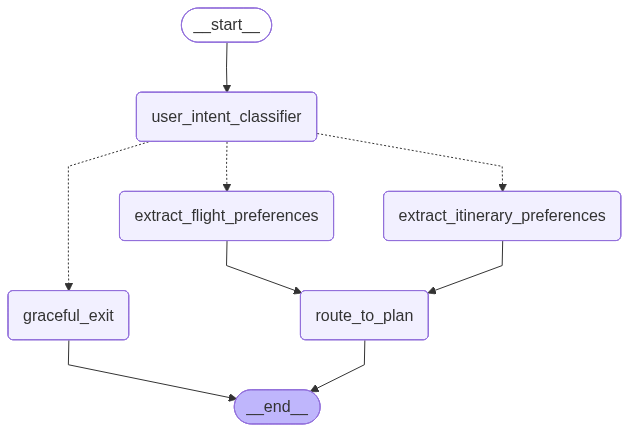
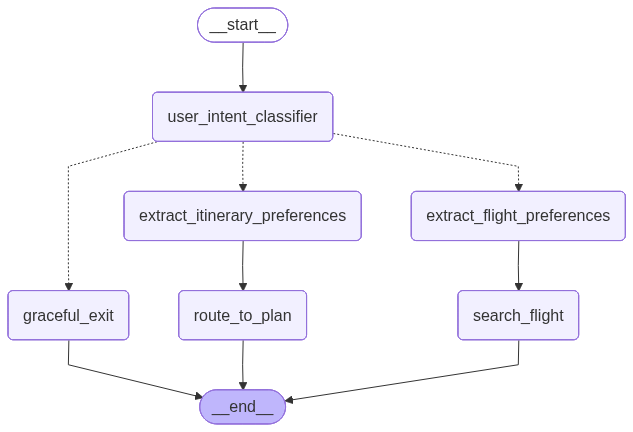
Flight Booking Tool Added

diff --git a/backend/app_workflow.py b/backend/app_workflow.py
@@ -10,6 +10,7 @@ from langgraph.graph import StateGraph
 from backend.checkpoint_manager import CheckpointerManager
 from backend.llm.client import create_llm_client
 from backend.nodes.flight.extract_flight_preferences import ExtractFlightPreferences
+from backend.nodes.flight.search_flight import SearchFlight
 from backend.nodes.itinerary.extract_itinerary_preferences import ExtractItineraryPreferences
 from backend.nodes.user_intent_classifier import UserIntentClassifier
 from backend.schema.models import State, IntentType
@@ -19,12 +20,10 @@ class IntentClassifierAgent:
     def __init__(self, llm_client:BaseChatModel):
         self.workflow = None
         self._checkpointer = CheckpointerManager(os.getenv("POSTGRES_URI")).setup()
-
         self.user_intent_classifier = UserIntentClassifier(llm_client)
-
         self.extract_itinerary_preferences = ExtractItineraryPreferences(llm_client)
-
         self.extract_flight_preferences = ExtractFlightPreferences(llm_client)
+        self.search_flight = SearchFlight(llm_client)
 
     def route_intent(self, state: State):
         if state.intent != IntentType.UNKNOWN and state.confidence > 0.6:
@@ -41,6 +40,8 @@ class IntentClassifierAgent:
 
         return "graceful_exit"
 
+
+
     def route_to_plan(self, state: State):
         print("im in routing further")
         print("Received prefs: ", *state)
@@ -56,6 +57,7 @@ class IntentClassifierAgent:
         graph.add_node("extract_flight_preferences", self.extract_flight_preferences)
         graph.add_node("graceful_exit", self.gracefully_exit)
         graph.add_node("route_to_plan", self.route_to_plan)
+        graph.add_node("search_flight", self.search_flight)
 
         graph.add_edge(START, "user_intent_classifier")
 
@@ -70,7 +72,8 @@ class IntentClassifierAgent:
         )
 
         graph.add_edge("extract_itinerary_preferences", "route_to_plan")
-        graph.add_edge("extract_flight_preferences", "route_to_plan")
+        graph.add_edge("extract_flight_preferences", "search_flight")
+        graph.add_edge("search_flight", END)
         graph.add_edge("route_to_plan", END)
 
         graph.add_edge("graceful_exit", END)
@@ -78,7 +81,6 @@ class IntentClassifierAgent:
         self.workflow = graph.compile(checkpointer=self._checkpointer)
 
     def invoke(self, user_input: str, session_id: str) -> dict[str, str]:
-        """Return response (only final AI message) and thinking (all reasoning/thinking for AI Thinking block)."""
         thinking_parts: set[str] = set()
         ai_message_content = ""
         printed_message_ids: set = set()

diff --git a/backend/nodes/flight/search_flight.py b/backend/nodes/flight/search_flight.py
@@ -1,0 +1,59 @@
+from langchain_core.language_models import BaseChatModel
+from langchain_core.messages import AIMessage
+
+from backend.nodes.base_node import BaseNode
+from backend.nodes.flight.flight_tools import search_flight as search_flight_tool
+from backend.schema.models import FlightBookingPreferences, State
+
+
+class SearchFlight(BaseNode):
+    def __init__(self, llm_client: BaseChatModel):
+        super().__init__(llm_client)
+
+    def __call__(self, state: State) -> dict:
+        preferences = state.preferences
+        if not isinstance(preferences, FlightBookingPreferences):
+            return {
+                "messages": [
+                    AIMessage(
+                        content="No flight preferences available. Please provide origin, destination, travel dates, and number of travelers."
+                    )
+                ]
+            }
+
+        if not preferences.is_complete():
+            missing = preferences.required_fields_missing()
+            return {
+                "messages": [
+                    AIMessage(
+                        content=f"Cannot search flights yet. Missing: {', '.join(missing)}. Please provide these details."
+                    )
+                ]
+            }
+
+        try:
+            result = search_flight_tool.invoke({"preferences": preferences})
+            ai_message = self._format_search_result(result)
+            return {"messages": [AIMessage(content=ai_message)]}
+        except Exception as e:
+            return {
+                "messages": [
+                    AIMessage(
+                        content=f"Flight search failed: {e}. Please try again or check your preferences."
+                    )
+                ]
+            }
+
+    def _format_search_result(self, result) -> str:
+        lines = [
+            "Here’s a flight that matches your preferences:",
+            f"- **Airline:** {result.airline} ({result.flight_number})",
+            f"- **Route:** {result.origin} → {result.destination}",
+            f"- **Duration:** {result.duration_hours}h",
+            f"- **Cabin:** {result.cabin_class}",
+            f"- **Price:** ${result.price_usd:.2f} USD",
+            f"- **Stops:** {result.stops}",
+
+            "Would you like me to proceed with booking this flight, or would you prefer that I explore more options for you?"
+        ]
+        return "\n".join(lines)

diff --git a/backend/nodes/flight/extract_flight_preferences.py b/backend/nodes/flight/extract_flight_preferences.py
@@ -2,7 +2,7 @@ from langchain_core.language_models import BaseChatModel
 from langchain_core.messages import SystemMessage, AIMessage
 
 from backend.nodes.base_node import BaseNode
-from backend.schema.models import FlightBookingPreferences
+from backend.schema.models import FlightBookingPreferences, State
 from backend.util.prompt_loader import get_system_prompt
 
 
@@ -10,7 +10,7 @@ class ExtractFlightPreferences(BaseNode):
     def __init__(self, llm_client: BaseChatModel):
         super().__init__(llm_client)
 
-    def __call__(self, state):
+    def __call__(self, state:State):
         prompts = [
             SystemMessage(content=get_system_prompt(state)),
             *state.messages
@@ -38,7 +38,7 @@ class ExtractFlightPreferences(BaseNode):
                 "Could you please share a few basics like:\n"
                 "- Destination\n"
                 "- Travel dates\n"
-                "- Departure city\n"
+                "- Origin\n"
                 "- Number of travelers\n"
                 "For example:\n"
                 "'I want to travel to Bali from Berlin on 31st Jan,2025 with 2 adults'"
@@ -50,8 +50,8 @@ class ExtractFlightPreferences(BaseNode):
             missing_fields.append("destination")
         if not preferences.travel_dates and preferences.duration_days is None:
             missing_fields.append("travel dates or duration")
-        if not preferences.departure_city:
-            missing_fields.append("departure city")
+        if not preferences.origin:
+            missing_fields.append("origin")
         if preferences.number_of_travelers is None:
             missing_fields.append("number of travelers")
 
@@ -75,8 +75,8 @@ class ExtractFlightPreferences(BaseNode):
             lines.append(f"- **Destination:** {preferences.destination}")
         if preferences.travel_dates:
             lines.append(f"- **Travel dates:** {preferences.travel_dates}")
-        if preferences.departure_city:
-            lines.append(f"- **Departure city:** {preferences.departure_city}")
+        if preferences.origin:
+            lines.append(f"- **Origin:** {preferences.origin}")
         if preferences.number_of_travelers is not None:
             lines.append(f"- **Travelers:** {preferences.number_of_travelers}")
         return "\n".join(lines)

diff --git a/backend/api/flight_controller.py b/backend/api/flight_controller.py
@@ -1,0 +1,53 @@
+import random
+import uuid
+from datetime import datetime, timedelta
+from typing import List
+
+from fastapi import APIRouter, Query
+
+router = APIRouter()
+
+AIRLINES = ["Delta Airlines", "Lufthansa", "Emirates", "Qatar Airways", "Air India"]
+AIRPORTS = ["JFK", "LHR", "DXB", "CDG", "SIN", "FRA", "DEL", "SFO"]
+CABIN_CLASSES = ["Economy", "Premium Economy", "Business", "First"]
+
+
+def generate_random_flight(origin: str, destination: str) -> dict:
+    departure_time = datetime.now() + timedelta(hours=random.randint(1, 72))
+    duration_hours = random.randint(2, 15)
+    arrival_time = departure_time + timedelta(hours=duration_hours)
+
+    return {
+        "id": str(uuid.uuid4()),
+        "airline": random.choice(AIRLINES),
+        "flight_number": f"{random.choice(['DL', 'LH', 'EK', 'QR', 'AI'])}{random.randint(100, 999)}",
+        "origin": origin,
+        "destination": destination,
+        "departure_time": departure_time.isoformat(),
+        "arrival_time": arrival_time.isoformat(),
+        "duration_hours": duration_hours,
+        "cabin_class": random.choice(CABIN_CLASSES),
+        "price_usd": round(random.uniform(150, 1500), 2),
+        "stops": random.choice([0, 1, 2]),
+    }
+
+
+@router.get("/flight-search")
+def flight_search(
+    origin: str = Query(..., example="JFK"),
+    destination: str = Query(..., example="LHR"),
+    passengers: int = Query(1, ge=1, le=10),
+) -> dict:
+    results_count = random.randint(3, 8)
+    flights: List[dict] = [
+        generate_random_flight(origin, destination)
+        for _ in range(results_count)
+    ]
+    return {
+        "search_id": str(uuid.uuid4()),
+        "origin": origin,
+        "destination": destination,
+        "passengers": passengers,
+        "currency": "USD",
+        "results": flights,
+    }

diff --git a/backend/nodes/flight/flight_tools.py b/backend/nodes/flight/flight_tools.py
@@ -1,0 +1,40 @@
+from typing import Union
+
+from langchain_core.tools import tool
+
+from backend.schema.models import FlightBookingPreferences
+from backend.service.FlightService import FlightService
+from backend.service.models import FlightSearchRequest, FlightSearchResponse
+
+
+def _to_flight_search_payload(preferences: Union[FlightBookingPreferences, dict]) -> FlightSearchRequest:
+    raw = preferences.number_of_travelers
+    if raw is None:
+        number_of_travelers = 1
+    elif isinstance(raw, str):
+        try:
+            number_of_travelers = int(raw.strip())
+        except (ValueError, AttributeError):
+            number_of_travelers = 1
+    else:
+        number_of_travelers = int(raw)
+    number_of_travelers = max(1, min(99, number_of_travelers))
+
+    origin = (preferences.origin or "").strip().upper()[:3]
+    destination = (preferences.destination or "").strip().upper()[:3]
+    if len(origin) < 3 or len(destination) < 3:
+        raise ValueError("origin and destination must be at least 3 characters (e.g. IATA code)")
+
+    return FlightSearchRequest(
+        origin=origin,
+        destination=destination,
+        number_of_travelers=number_of_travelers,
+    )
+
+
+@tool("Search flight api call")
+def search_flight(preferences: Union[FlightBookingPreferences, dict]) -> FlightSearchResponse:
+    """Search for flights using the given booking preferences (origin, destination, number_of_travelers)."""
+    flight_service = FlightService()
+    payload = _to_flight_search_payload(preferences)
+    return flight_service.search_flight(payload)

diff --git a/backend/api/chat_controller.py b/backend/api/chat_controller.py
@@ -2,13 +2,21 @@ from dotenv import load_dotenv
 from fastapi import APIRouter
 from pydantic import BaseModel
 
-from backend.app_workflow import IntentClassifierAgent
-from backend.llm.client import create_llm_client
-
 load_dotenv()
 router = APIRouter()
-agent = IntentClassifierAgent(llm_client=create_llm_client())
-agent.build_workflow()
+
+_agent = None
+
+
+def _get_agent():
+    global _agent
+    if _agent is None:
+        from backend.app_workflow import IntentClassifierAgent
+        from backend.llm.client import create_llm_client
+        _agent = IntentClassifierAgent(llm_client=create_llm_client())
+        _agent.build_workflow()
+    return _agent
+
 
 class ChatPayload(BaseModel):
     user_query: str
@@ -17,5 +25,4 @@ class ChatPayload(BaseModel):
 
 @router.post("/chat")
 def chat(request: ChatPayload) -> dict[str, str]:
-    """Returns dict with 'response' (AI message) and 'thinking' (AI thinking/reasoning)."""
-    return agent.invoke(request.user_query, request.session_id or "")
+    return _get_agent().invoke(request.user_query, request.session_id or "")

diff --git a/backend/service/FlightService.py b/backend/service/FlightService.py
@@ -1,0 +1,28 @@
+import requests
+from backend.service.models import FlightSearchResponse, FlightSearchRequest
+
+
+class FlightService:
+    def __init__(self, base_url = "http://localhost:8080"):
+        self.base_url = base_url.rstrip("/")
+
+    def search_flight(
+        self,
+        payload: FlightSearchRequest,
+    ) -> FlightSearchResponse:
+        response = requests.get(
+            f"{self.base_url}/flight-search",
+            params={
+                "origin": payload.origin,
+                "destination": payload.destination,
+                "passengers": payload.number_of_travelers,
+            },
+            timeout=10,
+        )
+
+        response.raise_for_status()
+
+        data = response.json()
+        if "results" in data and data["results"]:
+            return FlightSearchResponse.model_validate(data["results"][0])
+        return FlightSearchResponse.model_validate(data)

diff --git a/backend/schema/models.py b/backend/schema/models.py
@@ -87,7 +87,7 @@ class FlightBookingPreferences(BasePreferences):
         default=None,
         description="City or country the user wants to visit"
     )
-    departure_city: Optional[str] = Field(
+    origin: Optional[str] = Field(
         default=None,
         description="Specify source city"
     )
@@ -106,8 +106,8 @@ class FlightBookingPreferences(BasePreferences):
             missing.append("destination")
         if not self.travel_dates:
             missing.append("travel_dates")
-        if not self.departure_city:
-            missing.append("departure_city")
+        if not self.origin:
+            missing.append("origin")
         if not self.number_of_travelers:
             missing.append("number_of_travelers")
 

diff --git a/backend/service/models.py b/backend/service/models.py
@@ -1,0 +1,23 @@
+
+
+from datetime import datetime
+from pydantic import BaseModel, Field
+
+
+class FlightSearchResponse(BaseModel):
+    id: str
+    airline: str
+    flight_number: str
+    origin: str = Field(..., min_length=3, max_length=3)
+    destination: str = Field(..., min_length=3, max_length=3)
+    departure_time: datetime
+    arrival_time: datetime
+    duration_hours: int = Field(..., ge=0)
+    cabin_class: str
+    price_usd: float = Field(..., ge=0)
+    stops: int = Field(..., ge=0)
+
+class FlightSearchRequest(BaseModel):
+    origin: str = Field(..., min_length=3, max_length=3)
+    destination: str = Field(..., min_length=3, max_length=3)
+    number_of_travelers: int = Field(..., ge=1, le=99)

diff --git a/backend/nodes/itinerary/extract_itinerary_preferences.py b/backend/nodes/itinerary/extract_itinerary_preferences.py
@@ -52,7 +52,7 @@ class ExtractItineraryPreferences(BaseNode):
             missing_fields.append("destination")
         if not preferences.travel_dates and preferences.duration_days is None:
             missing_fields.append("travel dates or duration")
-        if not preferences.departure_city:
+        if not preferences.origin:
             missing_fields.append("departure city")
         if preferences.number_of_travelers is None:
             missing_fields.append("number of travelers")

diff --git a/backend/main.py b/backend/main.py
@@ -4,6 +4,7 @@ from fastapi import FastAPI
 from fastapi.middleware.cors import CORSMiddleware
 
 from backend.api.chat_controller import router as chat_router
+from backend.api.flight_controller import router as flight_router
 
 _CORS_ORIGINS = os.getenv("CORS_ORIGINS", "http://localhost:3000").strip().split(",")
 
@@ -16,3 +17,4 @@ app.add_middleware(
     allow_headers=["*"],
 )
 app.include_router(chat_router)
+app.include_router(flight_router)

diff --git a/backend/util/prompt_loader.py b/backend/util/prompt_loader.py
@@ -14,7 +14,7 @@ def get_prompt(name: str) -> str:
     return path.read_text(encoding="utf-8").strip()
 
 
-def get_system_prompt(self, state: State) -> str:
+def get_system_prompt(state: State) -> str:
     match state.intent:
         case IntentType.TRAVEL_PLANNING:
             return get_prompt(
